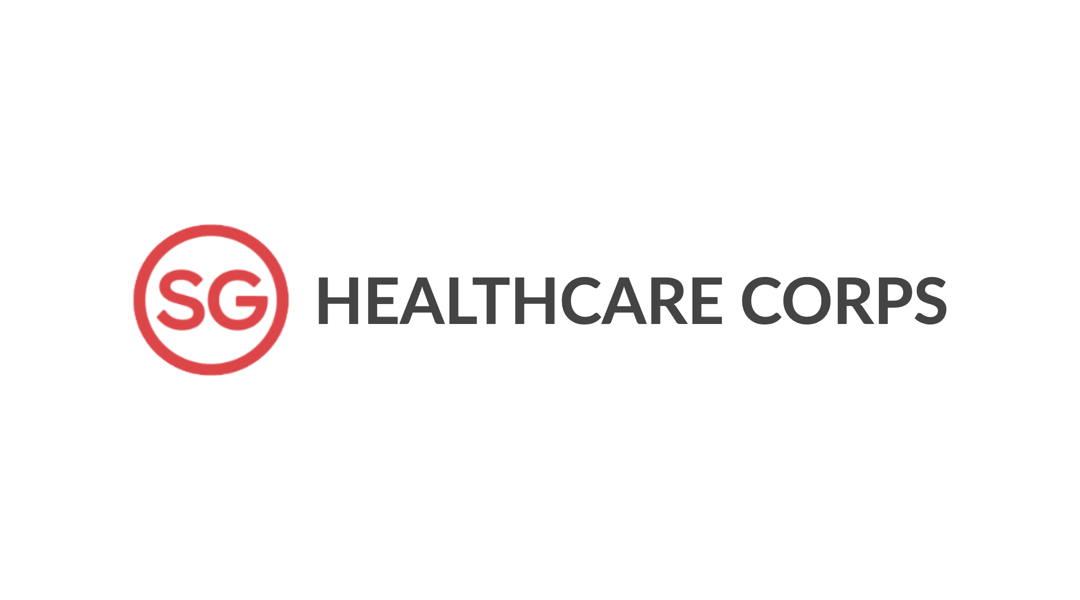
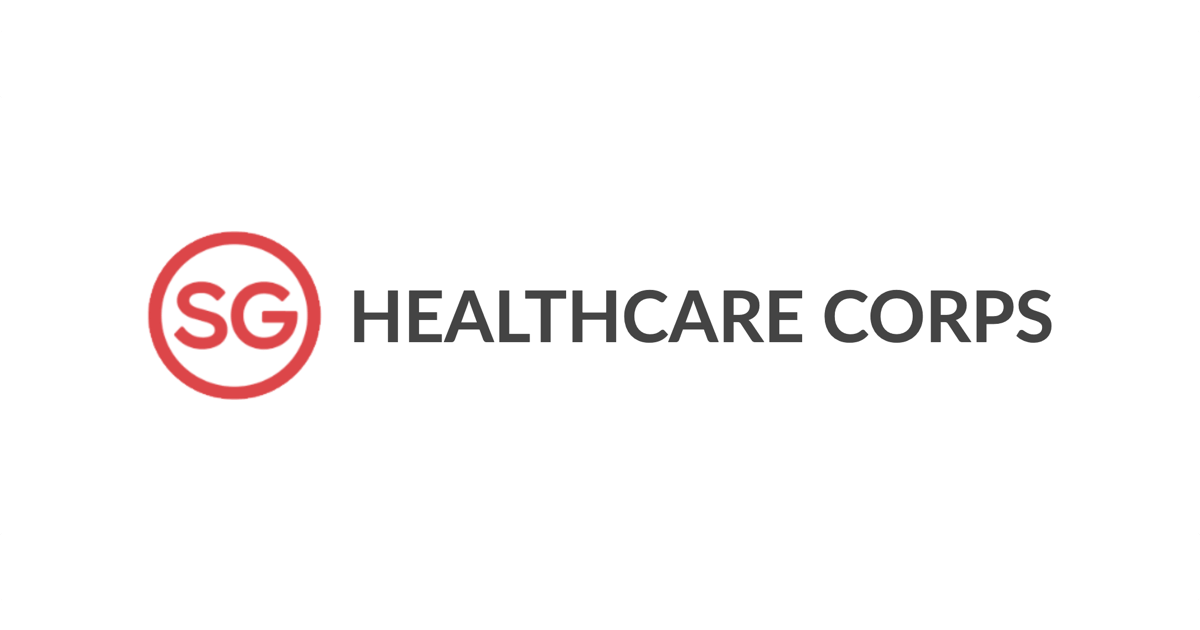
trying again with specific thumbnail size

diff --git a/index.html b/index.html
@@ -25,8 +25,8 @@
     <meta property="og:url" content="https://healthcarecorps.gov.sg/"/>
     <meta property="og:image" content="https://healthcarecorps.gov.sg/thumbnail.png"/>
     <meta property="og:image:width" content="image/png"/>
-    <meta property="og:image:width" content="2190"/>
-    <meta property="og:image:height" content="784"/>
+    <meta property="og:image:width" content="1200"/>
+    <meta property="og:image:height" content="630"/>
     <meta property="fb:admins" content=""/>
     <meta property="fb:app_id" content=""/>
     <meta property="og:type" content="website"/>
